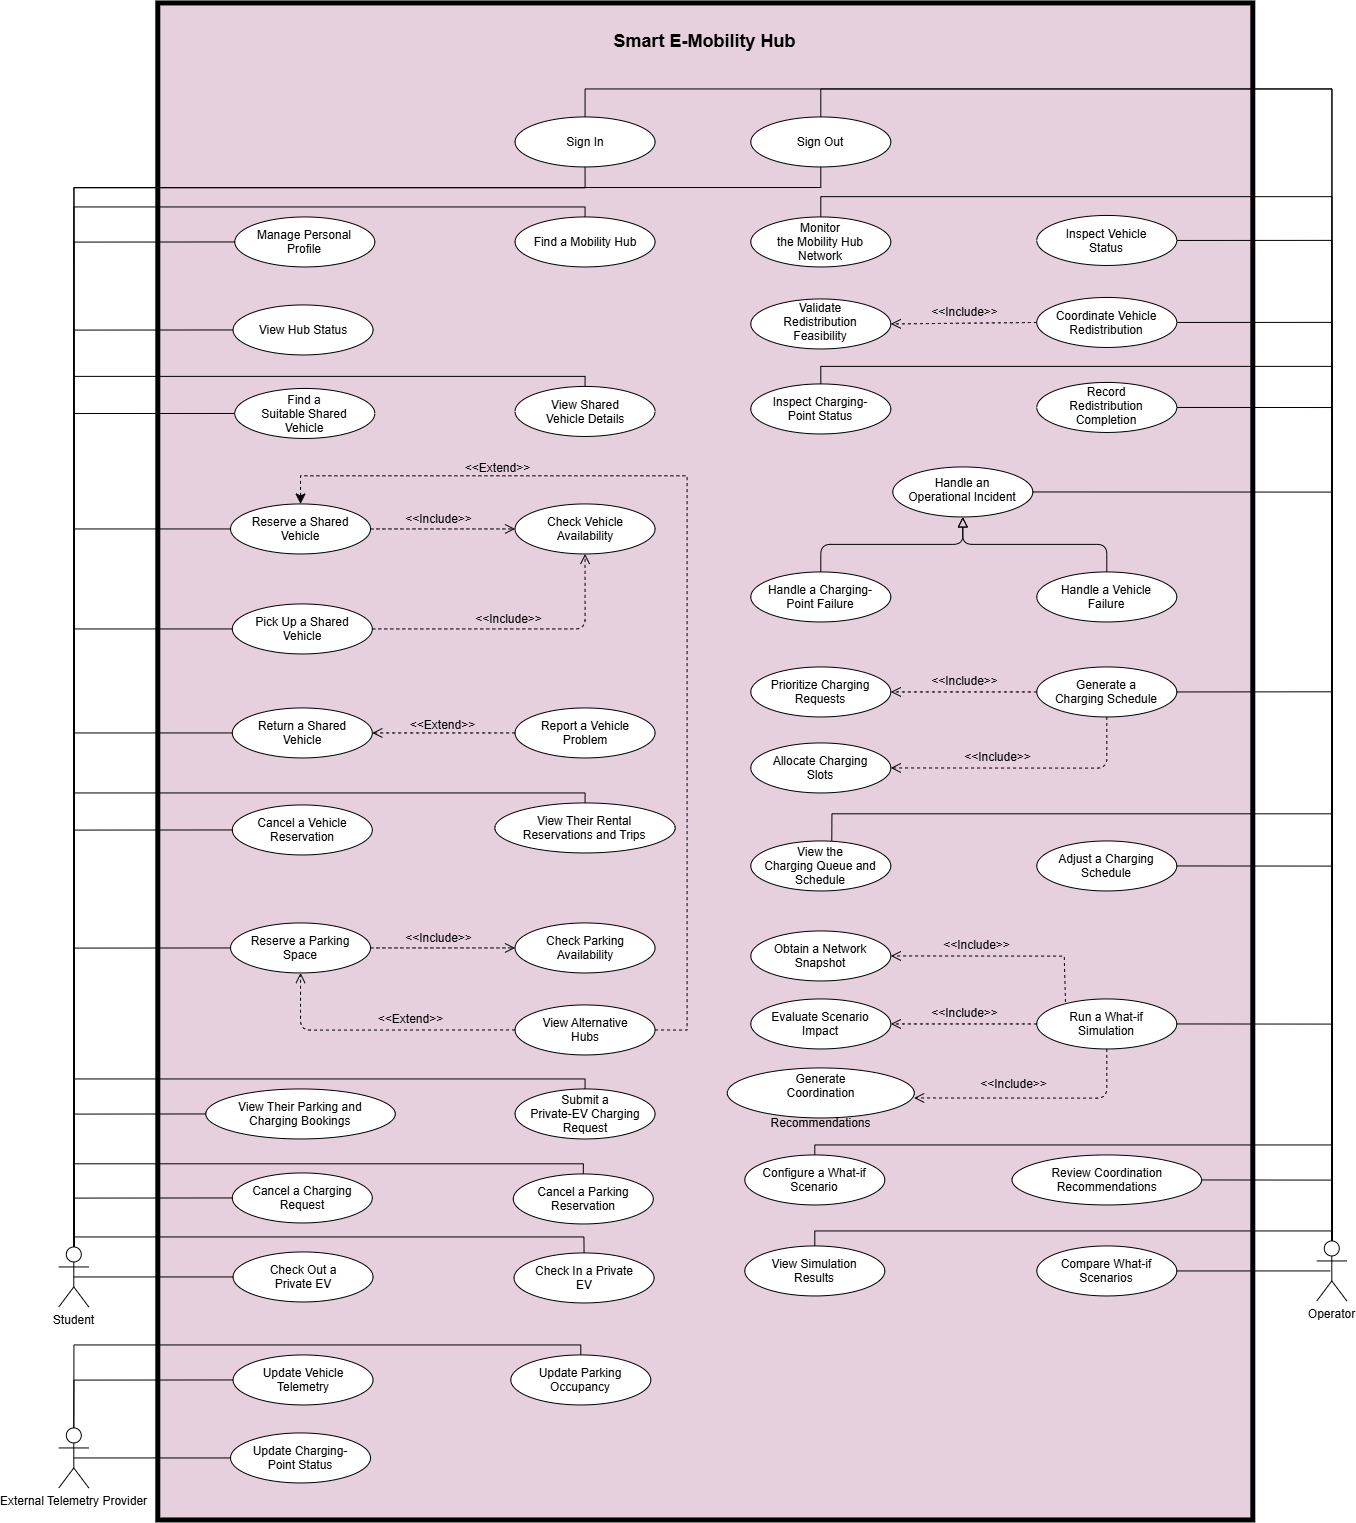
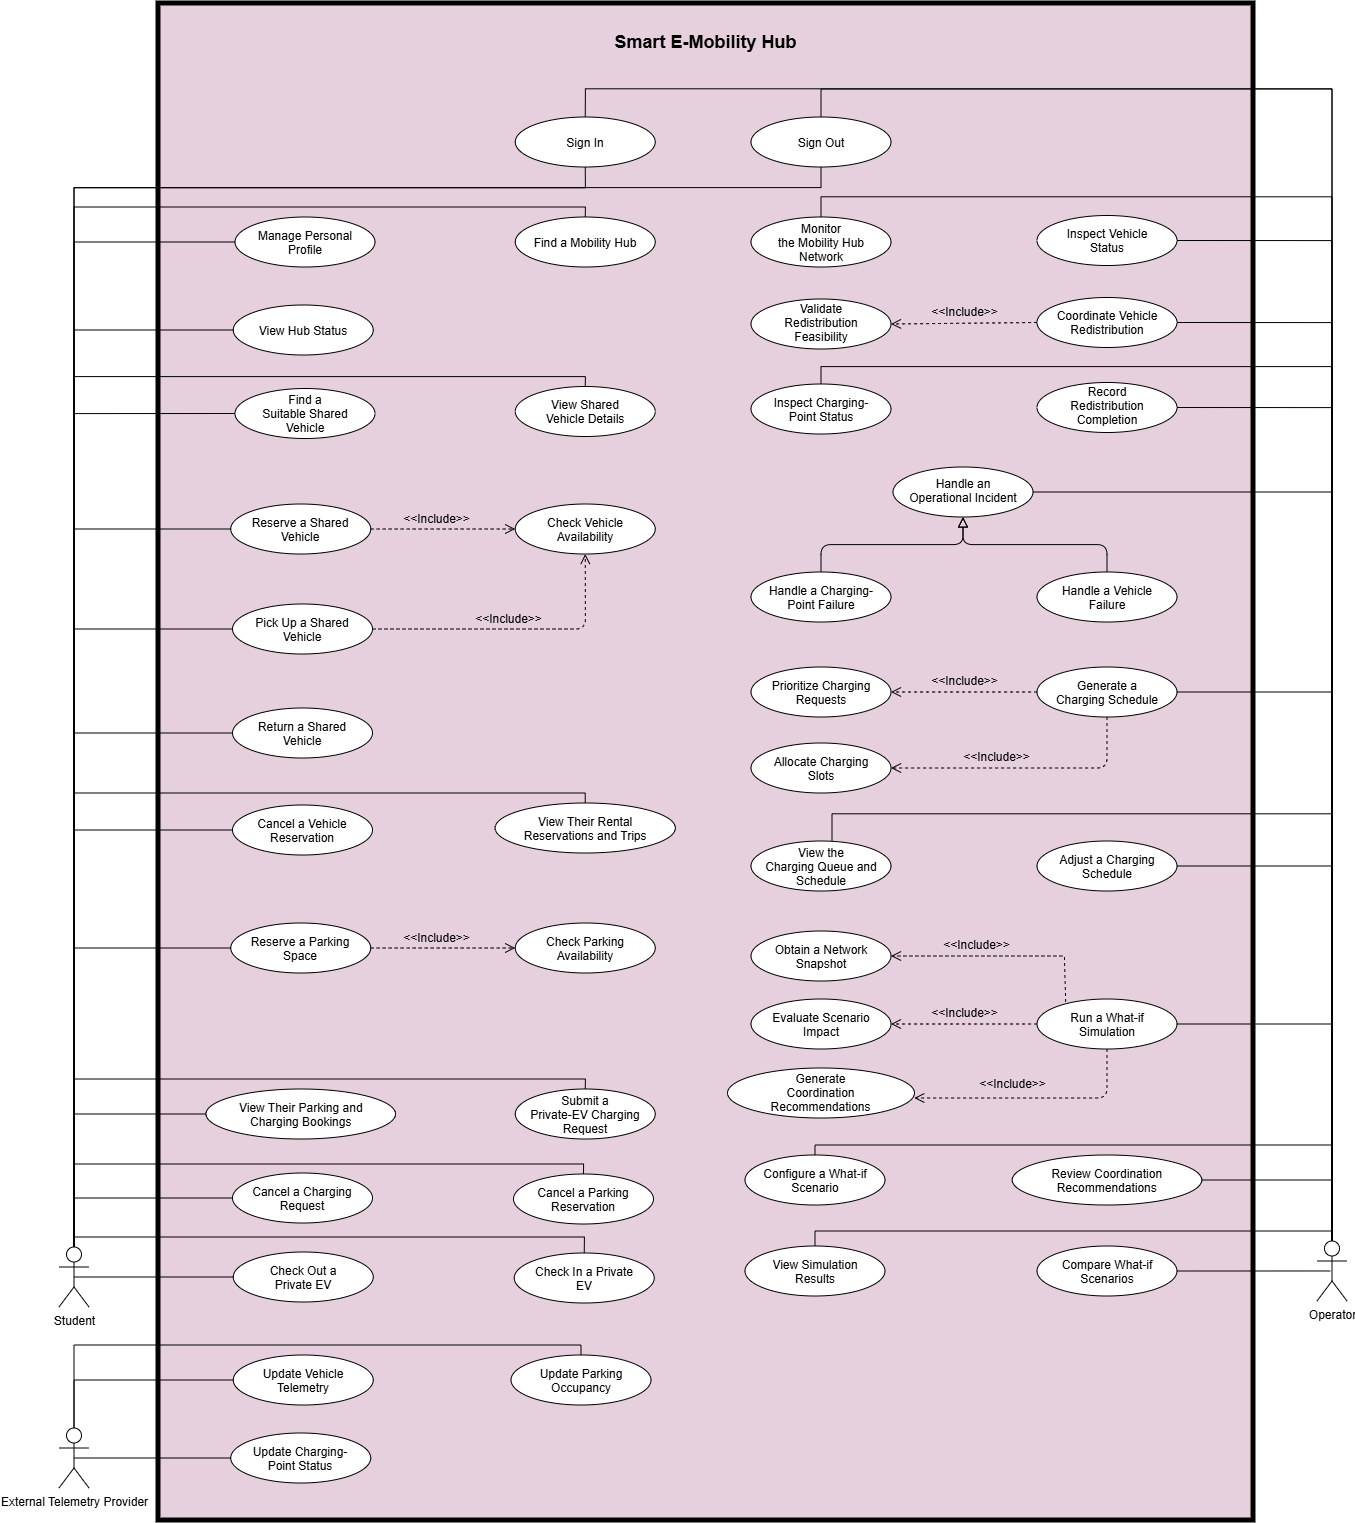
Remove external relationships in png and md

diff --git a/docs/submission-1/use-case-diagram/use-case-catalogue.md b/docs/submission-1/use-case-diagram/use-case-catalogue.md
@@ -149,15 +149,7 @@ Operator participation in UC-I02 and UC-I03 is inherited through UC-I01.
 | INC-08 | UC-W02 — Run a What-if Simulation | UC-S07 — Evaluate Scenario Impact |
 | INC-09 | UC-W02 — Run a What-if Simulation | UC-S08 — Generate Coordination Recommendations |
 
-### 4.3 Extend Relationships
-
-| ID | Extending use case (source) | Base use case (target) | Condition |
-| --- | --- | --- | --- |
-| EXT-01 | UC-X01 — View Alternative Hubs | UC-R03 — Reserve a Shared Vehicle | The selected vehicle cannot be reserved at confirmation, and the Student requests other Hubs with suitable shared vehicles. |
-| EXT-02 | UC-X01 — View Alternative Hubs | UC-P01 — Reserve a Parking Space | The selected Hub cannot allocate parking for the requested interval, and the Student requests alternative Hubs. |
-| EXT-03 | UC-R08 — Report a Vehicle Problem | UC-R05 — Return a Shared Vehicle | The Student chooses to report a vehicle problem during the return process. |
-
-### 4.4 Generalization Relationships
+### 4.3 Generalization Relationships
 
 | ID | Specialized use case (source) | General use case (target) |
 | --- | --- | --- |
